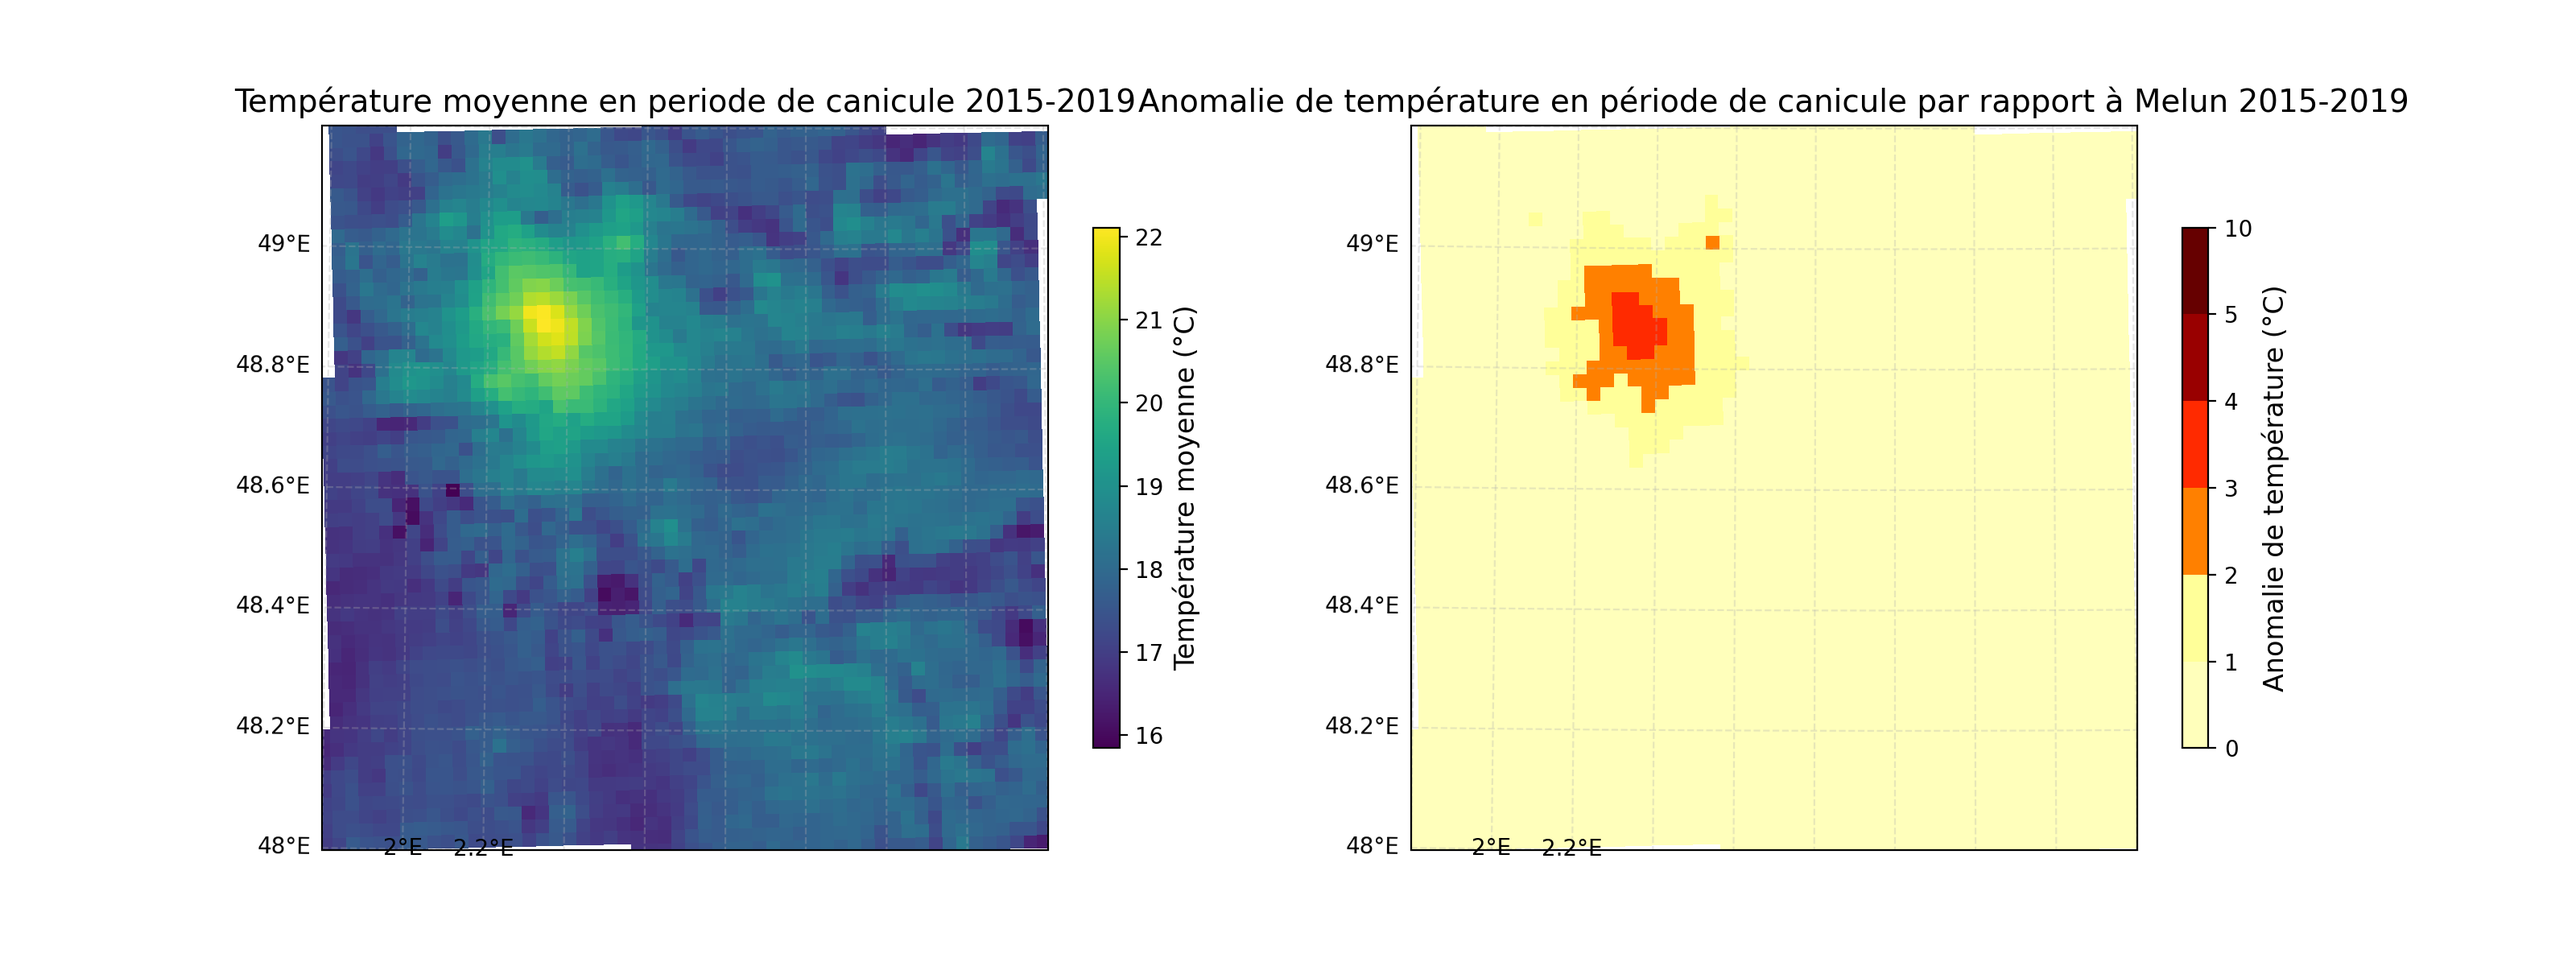
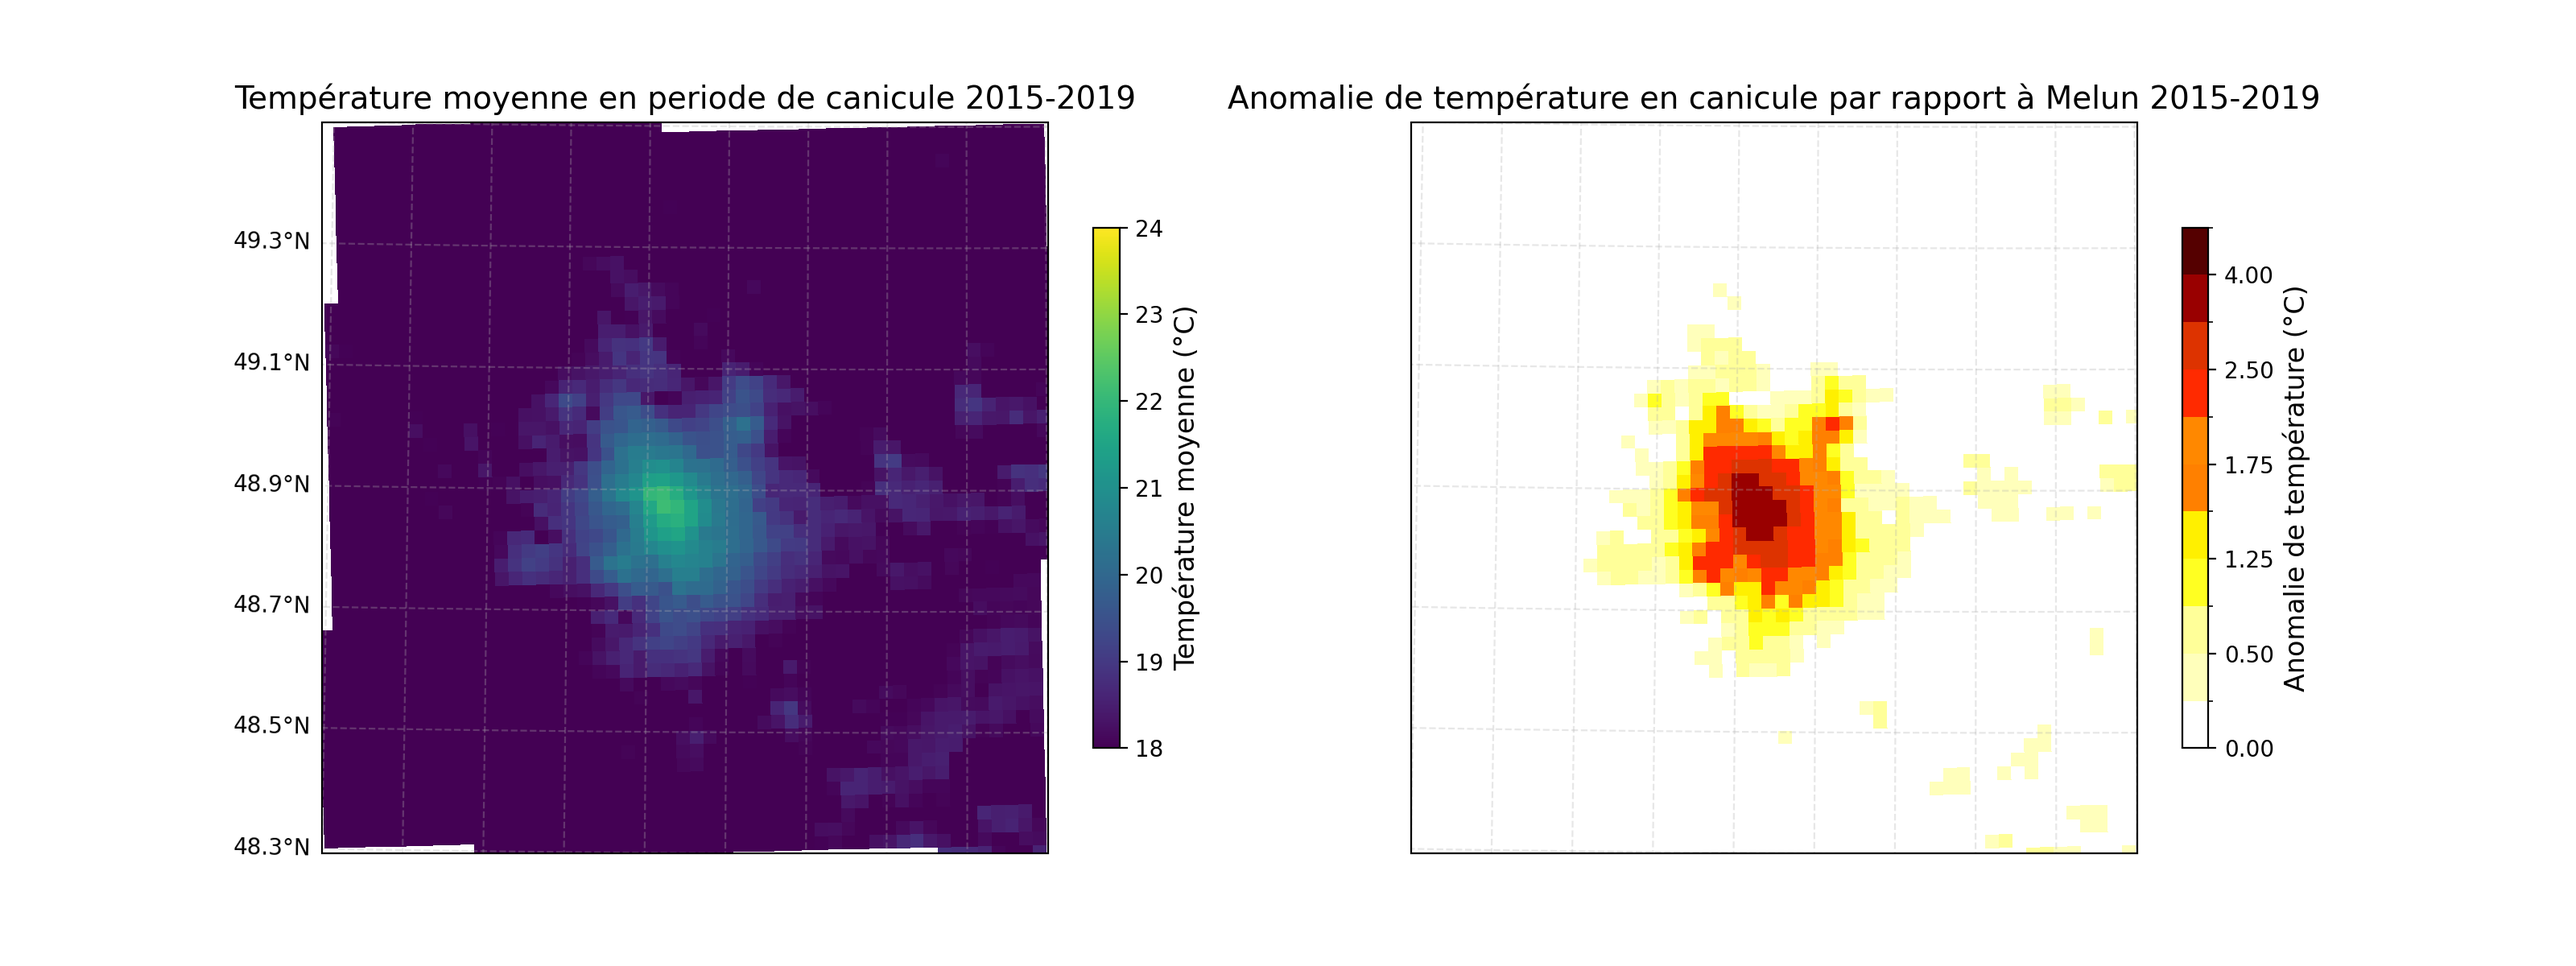
Code fini pour les moyennes sur periode de 10 ans

diff --git a/main.py b/main.py
@@ -52,11 +52,12 @@ def get_melun_tempe(data):
 
 
 ###########################################
-#   OCCURRENCE DE CANICUL
+#   OCCURRENCE DE CANICULE
 ###########################################
 def occurrence_canicule(tx,tn,seuilx,seuiln):
     """Fonction qui prend 2 DataArray en argument ainsi que 2 seuils de temperature
      elle renvoie un dataset des occurrence de canicule en été """
+    liste_ete = [4,5,6,7,8,9,10]
     cond = (tx >= seuilx + 273.15).astype(bool) & (tn >= seuiln+273.15).astype(bool) 
 
     c0 = cond
@@ -73,103 +74,15 @@ def jour_canicule(occurrence_canicule):
     ds = occurrence_canicule.where(occurrence_canicule["occurrence"].sum(dim = ("x","y"))>0,drop = True)
     return ds.time
 
-
-################################################################################################################################################################
-################################################################################################################################################################
-################################################################################################################################################################
-### Chemins des données
-parametre = ["tasAdjust", "tasmaxAdjust", "tasminAdjust"]
-periode = [ "20150101-20191231", #0
-            "20200101-20291231", #1
-            "20300101-20391231", #2
-            "20400101-20491231", #3
-            "20500101-20591231", #4
-            "20600101-20691231", #5
-            "20700101-20791231", #6
-            "20800101-20891231", #7
-            "20900101-20991231"] #8
-
-periode_bis = ["2015-2019","2020-2029","2030,2039","2040-2049","2050-2059","2060-2069","2070-2079","2080-2089","2090-2099"]
-liste_ete = [4,5,6,7,8,9,10]
-
-i_periode = 4
-
-i_param = 0
-T_data = xr.open_dataset(El_Allocator(i_param,i_periode))
-
-i_param = 1
-Tx_data = xr.open_dataset(El_Allocator(i_param,i_periode))
-
-i_param = 2
-Tn_data = xr.open_dataset(El_Allocator(i_param,i_periode))
-
-
-
-
-###########################################
-#   Zone géographique
-###########################################
-lat_min, lat_max = 48.3, 49.5  
-lon_min, lon_max = 1.5, 3.3
-
-
-
-i_param = 0
-T_data_IDF = mask_rectangle(T_data[parametre[i_param]], lat_min, lat_max, lon_min, lon_max)
-T_data_Melun = get_melun_tempe(T_data[parametre[i_param]])
-
-i_param = 1
-Tx_data_IDF = mask_rectangle(Tx_data[parametre[i_param]], lat_min, lat_max, lon_min, lon_max)
-Tx_data_Melun = get_melun_tempe(Tx_data[parametre[i_param]])
-
-i_param = 2
-Tn_data_IDF = mask_rectangle(Tn_data[parametre[i_param]], lat_min, lat_max, lon_min, lon_max)
-Tn_data_Melun = get_melun_tempe(Tn_data[parametre[i_param]])
-
-seuilx_IDF = 31
-seuiln_IDF = 21
-occurrence_canicule_IDF = occurrence_canicule(Tx_data_IDF, Tn_data_IDF, seuilx_IDF, seuiln_IDF)
-jour_canicule_IDF = jour_canicule(occurrence_canicule_IDF)
-
-T_IDF_canicule = T_data_IDF.sel(time=jour_canicule_IDF)#.sel(time='2059')
-T_Melun_canicule = T_data_Melun.sel(time=jour_canicule_IDF)#.sel(time='2059')
-
-Tx_IDF_canicule = Tx_data_IDF.sel(time=jour_canicule_IDF)#.sel(time='2059')
-Tx_Melun_canicule = Tx_data_Melun.sel(time=jour_canicule_IDF)#.sel(time='2059')
-
-Tn_IDF_canicule = Tn_data_IDF.sel(time=jour_canicule_IDF)#.sel(time='2059')
-Tn_Melun_canicule = Tn_data_Melun.sel(time=jour_canicule_IDF)#.sel(time='2059')
-
-
-###########################################
-#   Moyennes temporelles
-###########################################
-i_param = 2
-
-if i_param==0:
-    moy_T_IDF_canicule = T_IDF_canicule.mean(dim="time", skipna=True).values - 273.15
-    moy_T_melun_canicule = T_Melun_canicule.mean(dim="time", skipna=True).values - 273.15
-
-elif i_param==1:
-    moy_T_IDF_canicule = Tx_IDF_canicule.mean(dim="time", skipna=True).values - 273.15
-    moy_T_melun_canicule = Tx_Melun_canicule.mean(dim="time", skipna=True).values - 273.15
-
-elif i_param==2:
-    moy_T_IDF_canicule = Tn_IDF_canicule.mean(dim="time", skipna=True).values - 273.15
-    moy_T_melun_canicule = Tn_Melun_canicule.mean(dim="time", skipna=True).values - 273.15
-
-anomalie_par_melun = moy_T_IDF_canicule - moy_T_melun_canicule
-
 ###########################################
 #   AFFICHAGE
 ###########################################
-def AFFICHAGE(i_param, i_periode, lat_min, lat_max, lon_min, lon_max):
-    lats_data = T_data_IDF['lat'].values
-    lons_data = T_data_IDF['lon'].values
+def AFFICHAGE(moy_T, anomalie_par_melun, i_param, i_periode, lat_min, lat_max, lon_min, lon_max):
+    lats_data = moy_T['lat'].values
+    lons_data = moy_T['lon'].values
 
-    lat_lim_idf = [lat_min, lat_max]
-    lon_lim_idf = [lon_min, lon_max]
-
+    periode_bis = ["2015-2019","2020-2029","2030,2039","2040-2049","2050-2059","2060-2069","2070-2079","2080-2089","2090-2099"]
+    
     # Création figure avec deux sous-graphes
     fig, axs = plt.subplots(
         1, 2, figsize=(16, 6),
@@ -182,18 +95,26 @@ def AFFICHAGE(i_param, i_periode, lat_min, lat_max, lon_min, lon_max):
     ax.coastlines('10m', color='black', linewidth=0.8)
 
     # Grille
-    gl = ax.gridlines(crs=ccrs.PlateCarree(), draw_labels=True, linestyle='--', alpha=0.3)
+    gl = ax.gridlines(
+        crs=ccrs.PlateCarree(),
+        draw_labels=False,
+        linestyle='--',
+        alpha=0.3
+    )
     gl.top_labels = False
+    gl.bottom_labels = True
+    gl.left_labels = True
     gl.right_labels = False
     gl.xformatter = LONGITUDE_FORMATTER
-    gl.yformatter = LONGITUDE_FORMATTER
-    gl.xlocator = mticker.FixedLocator(np.arange(lon_min, lon_max-0.1, 0.2))
-    gl.ylocator = mticker.FixedLocator(np.arange(lat_min, lat_max+0.1, 0.2))
+    gl.yformatter = LATITUDE_FORMATTER
+    gl.xlocator = mticker.FixedLocator(np.arange(lon_min, lon_max+0.01, 0.2))
+    gl.ylocator = mticker.FixedLocator(np.arange(lat_min, lat_max+0.01, 0.2))
+
 
     #colormap
     couleurs = ['#ffffff',  '#ffffbb',  '#ffff99', '#ffff22','#fff000',  '#ff8000','#ff8800', '#ff2a00','#dd3300', '#990000','#770000', '#550000']
     cmap = colors.ListedColormap(couleurs)
-    boundaries = [0,0.5,1,1.5, 2, 2.5, 3,3.5,4,4.5,5,10]
+    boundaries = [0,0.25,0.5,1, 1.25, 1.5, 1.75,2,2.5,3,4,5]
     norm = colors.BoundaryNorm(boundaries, cmap.N, clip=True)
 
     if i_param==0:
@@ -207,7 +128,7 @@ def AFFICHAGE(i_param, i_periode, lat_min, lat_max, lon_min, lon_max):
         vmax = 24
 
     mm0 = ax.pcolormesh(
-        lons_data, lats_data, moy_T_IDF_canicule,
+        lons_data, lats_data, moy_T,
         vmin=vmin, vmax=vmax,
         cmap=mpl.cm.viridis, shading='auto',
         transform=ccrs.PlateCarree()
@@ -222,13 +143,21 @@ def AFFICHAGE(i_param, i_periode, lat_min, lat_max, lon_min, lon_max):
     ax.coastlines('10m', color='black', linewidth=0.8)
 
     # Grille
-    gl = ax.gridlines(crs=ccrs.PlateCarree(), draw_labels=True, linestyle='--', alpha=0.3)
-    gl.top_labels = False
-    gl.right_labels = False
+    gl = ax.gridlines(
+        crs=ccrs.PlateCarree(),
+        draw_labels=False,
+        linestyle='--',
+        alpha=0.3
+        )
+    gl.xlabels_top = False
+    gl.xlabels_bottom = True
+    gl.ylabels_left = True
+    gl.ylabels_right = False
     gl.xformatter = LONGITUDE_FORMATTER
-    gl.yformatter = LONGITUDE_FORMATTER
-    gl.xlocator = mticker.FixedLocator(np.arange(lon_min, lon_max+0.1, 0.2))
-    gl.ylocator = mticker.FixedLocator(np.arange(lat_min, lat_max+0.1, 0.2))
+    gl.yformatter = LATITUDE_FORMATTER
+    gl.xlocator = mticker.FixedLocator(np.arange(lon_min, lon_max+0.01, 0.2))
+    gl.ylocator = mticker.FixedLocator(np.arange(lat_min, lat_max+0.01, 0.2))
+
 
 
     mm1 = ax.pcolormesh(
@@ -239,10 +168,108 @@ def AFFICHAGE(i_param, i_periode, lat_min, lat_max, lon_min, lon_max):
     )
     cbar1 = plt.colorbar(mm1, ax=ax, orientation='vertical', shrink=0.7)
     cbar1.set_label('Anomalie de température (°C)', fontsize=12)
-    ax.set_title(f"Anomalie de température en période de canicule par rapport à Melun {periode_bis[i_periode]}", fontsize=14)
+    ax.set_title(f"Anomalie de température en canicule par rapport à Melun {periode_bis[i_periode]}", fontsize=14)
+    
+
 
     # Sauvegarde
     chemin_fig = "Cartes/"
     os.makedirs(chemin_fig, exist_ok=True)
     plt.savefig(chemin_fig + f"carte_{parametre[i_param]}_IDF_{periode_bis[i_periode]}.png", dpi=200)
     plt.close()
+
+################################################################################################################################################################
+################################################################################################################################################################
+################################################################################################################################################################
+
+###########################################
+#   Chemins des données
+###########################################
+parametre = ["tasAdjust", "tasmaxAdjust", "tasminAdjust"]
+periode = [ "20150101-20191231", #0
+            "20200101-20291231", #1
+            "20300101-20391231", #2
+            "20400101-20491231", #3
+            "20500101-20591231", #4
+            "20600101-20691231", #5
+            "20700101-20791231", #6
+            "20800101-20891231", #7
+            "20900101-20991231"] #8
+
+###########################################
+#   Zone géographique
+###########################################
+lat_min, lat_max = 48.3, 49.5  
+lon_min, lon_max = 1.5, 3.3
+
+
+for i_periode in range(0,9):
+    i_param = 0
+    T_data = xr.open_dataset(El_Allocator(i_param,i_periode))
+
+    i_param = 1
+    Tx_data = xr.open_dataset(El_Allocator(i_param,i_periode))
+
+    i_param = 2
+    Tn_data = xr.open_dataset(El_Allocator(i_param,i_periode))
+
+
+    ###########################################
+    #   Restriction des données à l'IDF 
+    ###########################################
+    i_param = 0
+    T_data_IDF = mask_rectangle(T_data[parametre[i_param]], lat_min, lat_max, lon_min, lon_max)
+    T_data_Melun = get_melun_tempe(T_data[parametre[i_param]])
+
+    i_param = 1
+    Tx_data_IDF = mask_rectangle(Tx_data[parametre[i_param]], lat_min, lat_max, lon_min, lon_max)
+    Tx_data_Melun = get_melun_tempe(Tx_data[parametre[i_param]])
+
+    i_param = 2
+    Tn_data_IDF = mask_rectangle(Tn_data[parametre[i_param]], lat_min, lat_max, lon_min, lon_max)
+    Tn_data_Melun = get_melun_tempe(Tn_data[parametre[i_param]])
+
+
+    ###########################################
+    #   Recherche des périodes de canicule
+    ###########################################
+    seuilx_IDF = 31
+    seuiln_IDF = 21
+    occurrence_canicule_IDF = occurrence_canicule(Tx_data_IDF, Tn_data_IDF, seuilx_IDF, seuiln_IDF)
+    jour_canicule_IDF = jour_canicule(occurrence_canicule_IDF)
+
+
+    ###########################################
+    #   Restriction des données aux canicules
+    ###########################################
+    T_IDF_canicule = T_data_IDF.sel(time=jour_canicule_IDF)#.sel(time='2059')
+    T_Melun_canicule = T_data_Melun.sel(time=jour_canicule_IDF)#.sel(time='2059')
+
+    Tx_IDF_canicule = Tx_data_IDF.sel(time=jour_canicule_IDF)#.sel(time='2059')
+    Tx_Melun_canicule = Tx_data_Melun.sel(time=jour_canicule_IDF)#.sel(time='2059')
+
+    Tn_IDF_canicule = Tn_data_IDF.sel(time=jour_canicule_IDF)#.sel(time='2059')
+    Tn_Melun_canicule = Tn_data_Melun.sel(time=jour_canicule_IDF)#.sel(time='2059')
+
+
+    ###########################################
+    #   Moyennes temporelles
+    ###########################################
+    i_param = 2
+
+    if i_param==0:
+        moy_T_IDF_canicule = T_IDF_canicule.mean(dim="time", skipna=True) - 273.15
+        moy_T_melun_canicule = T_Melun_canicule.mean(dim="time", skipna=True) - 273.15
+
+    elif i_param==1:
+        moy_T_IDF_canicule = Tx_IDF_canicule.mean(dim="time", skipna=True) - 273.15
+        moy_T_melun_canicule = Tx_Melun_canicule.mean(dim="time", skipna=True) - 273.15
+
+    elif i_param==2:
+        moy_T_IDF_canicule = Tn_IDF_canicule.mean(dim="time", skipna=True) - 273.15
+        moy_T_melun_canicule = Tn_Melun_canicule.mean(dim="time", skipna=True) - 273.15
+
+    anomalie_par_melun = moy_T_IDF_canicule - moy_T_melun_canicule
+
+    AFFICHAGE(moy_T_IDF_canicule, anomalie_par_melun,i_param, i_periode, lat_min, lat_max, lon_min, lon_max)
+    print(periode[i_periode])
